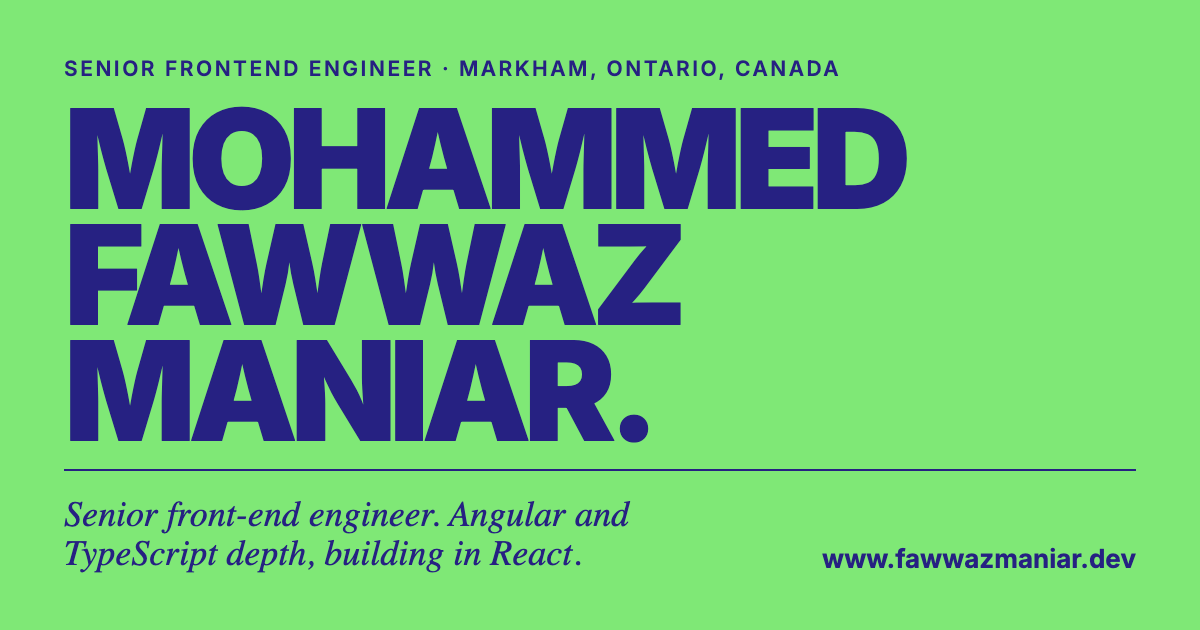
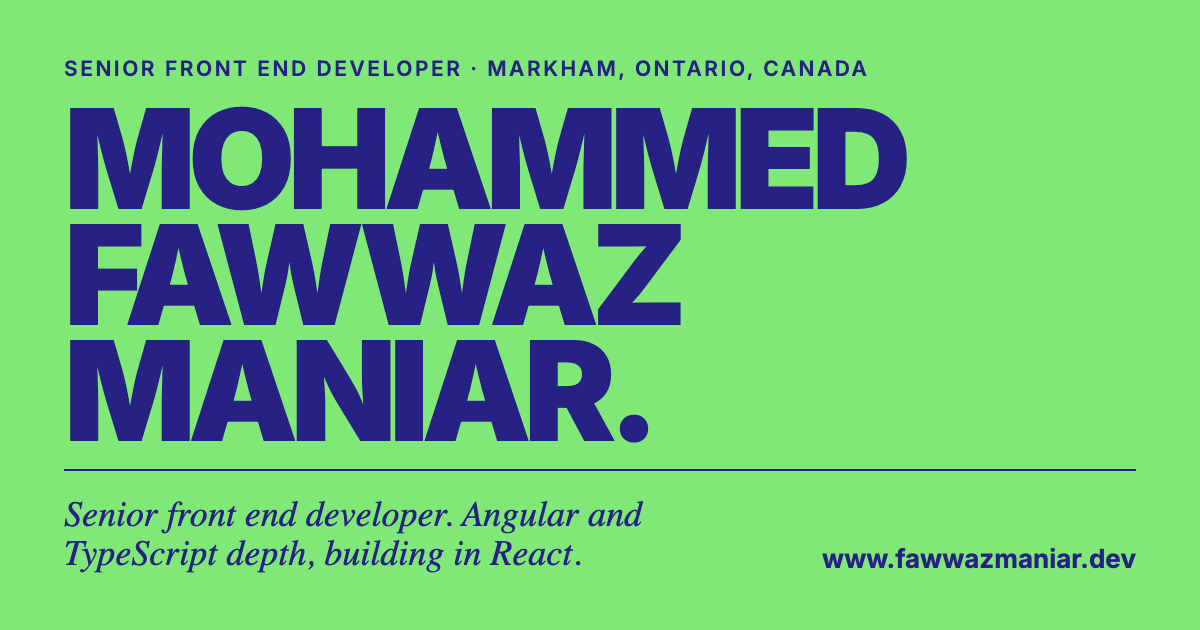
Match the resume: title, skills and spelling
- Senior Front End Developer everywhere (hero, title, description, OG and
  Twitter tags, structured data, About, the Jonas role, the tagline)
- Skills section mirrors the resume's groups, order and wording. Adds
  Vitest, Supabase and React Native; drops Bootstrap, React Hook Form and
  the Ways of working group, which the resume doesn't list
- "Dean's Honour Roll"
- Social card regenerated with the new title
- No figures added to the site

Changed region(s): [[0.185, 0.7841, 0.555, 0.8444], [0.185, 0.0905, 0.74, 0.1206]]

diff --git a/src/content.ts b/src/content.ts
@@ -7,15 +7,15 @@ import type { Education, Job, NavItem, Project, SkillGroup } from './types.ts'
 export const site = {
   // Used for the canonical link, Open Graph, sitemap and structured data.
   url: 'https://www.fawwazmaniar.dev',
-  title: 'Mohammed Fawwaz Maniar | Senior Frontend Engineer',
+  title: 'Mohammed Fawwaz Maniar | Senior Front End Developer',
   description:
-    'Senior frontend engineer in Markham, Ontario. 9 years of web development, deep in Angular and TypeScript, building in React. Open to senior front-end and full-stack roles.',
+    'Senior front end developer in Markham, Ontario. 9 years of web development, deep in Angular and TypeScript, building in React. Open to senior front-end and full-stack roles.',
 }
 
 export const person = {
   name: 'Mohammed Fawwaz Maniar',
   brand: 'Fawwaz.',
-  jobTitle: 'Senior Frontend Engineer',
+  jobTitle: 'Senior Front End Developer',
   location: 'Markham, Ontario, Canada',
   email: 'fawwazmaniar@gmail.com',
   // An empty profile URL renders as "coming soon".
@@ -36,13 +36,13 @@ export const nav: NavItem[] = [
 
 export const hero = {
   status: 'Open to senior front-end and full-stack roles',
-  positioning: 'Senior front-end engineer. Angular and TypeScript depth, building in React.',
+  positioning: 'Senior front end developer. Angular and TypeScript depth, building in React.',
   intro:
     'I own features end to end, lead legacy-to-modern migrations, and mentor other developers. I have 9 years of experience, currently at Jonas Software.',
   facts: [
     { label: 'Depth', value: 'Angular and TypeScript' },
     { label: 'Building in', value: 'React and React Native' },
-    { label: 'Backend and data', value: 'C# and SQL' },
+    { label: 'Backend & Data', value: 'C# and SQL' },
   ],
   stats: [
     { value: 9, suffix: '+', label: 'Years of experience' },
@@ -68,54 +68,57 @@ export const ticker = [
 ]
 
 export const about = [
-  'I am a senior frontend engineer in Markham, Ontario. My depth is Angular and TypeScript, building data-heavy interfaces for enterprise business intelligence products. I am now building in React through personal projects, including a workout tracker called Plateau and a React Native marketplace app called Aethr.',
+  'I am a senior front end developer in Markham, Ontario. My depth is Angular and TypeScript, building data-heavy interfaces for enterprise business intelligence products. I am now building in React through personal projects, including a workout tracker called Plateau and a React Native marketplace app called Aethr.',
   'I take ownership of a feature from requirements through release and production support. I lead migrations from legacy applications to modern stacks, and I mentor junior and intermediate developers through code review. I care about readable, maintainable code and I write tests alongside it.',
   'I use GitHub Copilot and Claude every day for scaffolding, test generation, debugging, and code review. I review everything they produce, and I own what ships.',
 ]
 
+// Mirrors the skills section of the resume, in the same order and wording.
 export const skills: SkillGroup[] = [
   {
     title: 'Frontend',
     note: 'Angular is my professional depth. My React experience comes from personal projects.',
     items: [
+      'React (Hooks, React Router, React Native)',
       'TypeScript',
       'JavaScript (ES6+)',
-      'React (Hooks, React Router, React Hook Form)',
       'Angular (NgRx, RxJS, OnPush, lazy loading)',
       'HTML5',
       'CSS3',
-      'Bootstrap',
-      'Responsive and mobile-first design',
+      'Responsive design',
     ],
   },
   {
-    title: 'State and data fetching',
-    items: ['Zustand', 'TanStack Query (React Query)', 'NgRx', 'RxJS', 'REST API integration'],
+    title: 'State & Data',
+    items: ['Zustand', 'TanStack Query (React Query)', 'NgRx', 'RxJS', 'Supabase', 'REST API integration'],
   },
   {
-    title: 'Testing and delivery',
-    items: ['React Testing Library', 'Automated testing', 'CI/CD', 'GitHub Actions', 'Git', 'Code review'],
-  },
-  {
-    title: 'Backend and data',
-    items: ['Node.js', 'C# / .NET Core', 'RESTful APIs', 'SQL (authoring and optimization)', 'SQL Server', 'PostgreSQL'],
-  },
-  {
-    title: 'AI-assisted development',
+    title: 'Testing & Delivery',
     items: [
-      'GitHub Copilot',
-      'Claude (agentic workflows, code generation, test scaffolding, debugging, code review)',
+      'Vitest',
+      'React Testing Library',
+      'Unit and integration testing',
+      'CI/CD pipelines',
+      'GitHub Actions',
+      'Git',
+      'Code review',
+      'Agile/Scrum',
     ],
   },
   {
-    title: 'Ways of working',
-    items: ['Agile/Scrum', 'Requirements analysis', 'Cross-functional collaboration', 'Mentorship'],
+    title: 'Backend & Data',
+    items: ['Node.js', 'C# / .NET Core', 'RESTful APIs', 'SQL (authoring & optimization)', 'SQL Server', 'PostgreSQL'],
+  },
+  {
+    title: 'AI-Assisted Development',
+    note: 'Agentic workflows, test scaffolding, debugging, code review.',
+    items: ['Claude', 'GitHub Copilot'],
   },
 ]
 
 export const experience: Job[] = [
   {
-    role: 'Senior Front End Engineer',
+    role: 'Senior Front End Developer',
     company: 'Jonas Software',
     location: 'Markham, ON',
     period: 'Sept 2019 to present',
@@ -241,7 +244,7 @@ export const education: Education[] = [
     title: 'BSc Computer Science',
     school: 'Trent University, Oshawa',
     period: '2021 to 2023',
-    note: "Dean's Honor Roll",
+    note: "Dean's Honour Roll",
   },
   {
     title: 'Advanced Diploma, Computer Programming and Analysis',
